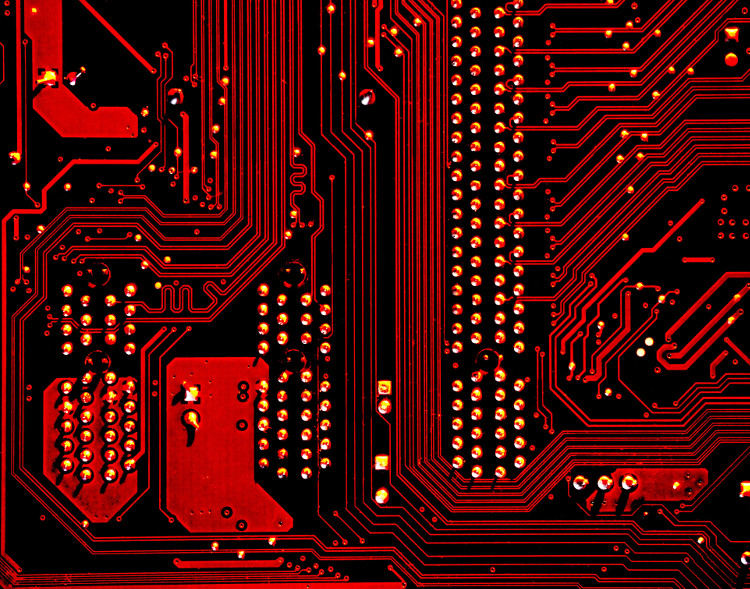
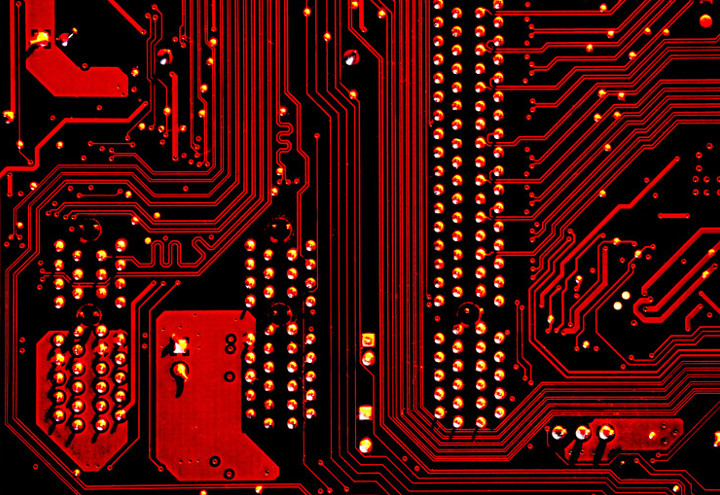
(TXT) / (IMG) - Adds more intro and resize the main image.

diff --git a/_posts/2020-09-18-200-linux-commands-for-everyday-life.md b/_posts/2020-09-18-200-linux-commands-for-everyday-life.md
@@ -15,7 +15,9 @@ sitemap: true
 For a long time I had the idea of gathering somewhere centrally the most common Linux commands in these years of technology work. Looking back, I see that my relationship with the software in a professional way (I was previously a trainee) began in 2007, about thirteen years ago. Since then, I have always been within Linux environments and above all, in Ubuntu / Debian in particular. In some moments I have had to manage CentOS / RHEL and in some laptops I still have Fedora. But Debian / Ubuntu / L-Ubuntu were always my options (and still are).  
 <!--more-->
 
-So I have compiled several files exported from the history command, some interesting utilities and I have tried to gather them all in this post, mainly those that can be a useful, fast and simple solution in the day to day. 
+So I have compiled several files exported from the history command, some interesting utilities and I have tried to gather them all in this post, mainly those that can be a useful, fast and simple solution in the day to day.  
+
+I have thought of this grouping as a collection to get to know your system better and to be able to work better on a daily basis, losing the fear of the "Linux console". With these instructions and the flexibility they provide (the commands have many more options than I summarize here) you can perform your daily work with comfort and reliability.  
  
 
 
